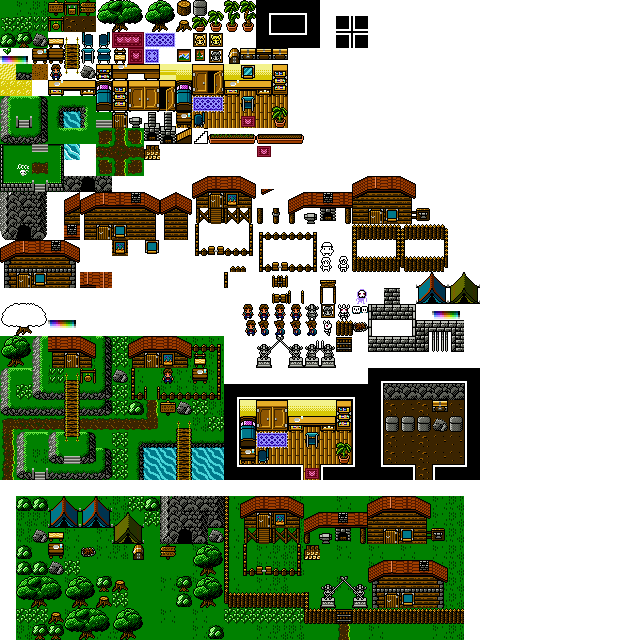
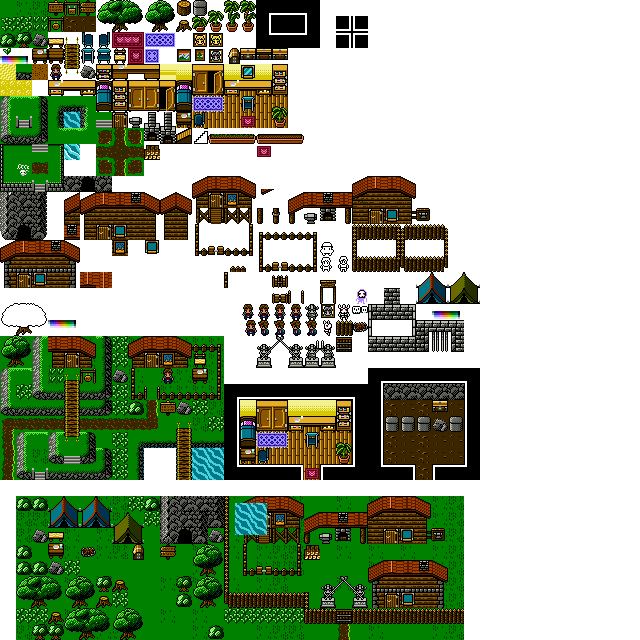
ну вроді ВСЬО

Changed region(s): [[0.3438, 0.7812, 0.4375, 0.8438], [0.2188, 0.6875, 0.2812, 0.75]]

diff --git a/Controller/MapController.cs b/Controller/MapController.cs
@@ -54,7 +54,7 @@ namespace Project.Controller
                 { 0 ,29,25,0 ,0 ,0 ,0 ,0 ,0 ,29,29,0 ,0 ,0 ,22,29,22,29,22,0 ,0 ,0 ,0 ,0 ,0 ,0 ,0 ,0 ,0 ,0 ,0 ,0 ,0 ,0 ,0 ,0 ,0 ,0 ,0 ,0 ,0 ,0 ,0 ,0 ,0 ,0 ,0 ,0 ,0 ,0 ,0 ,0 ,0 ,0 ,0 ,0 ,0 ,0 ,0 ,0},
                 { 0 ,7 ,24,0 ,0 ,0 ,0 ,0 ,0 ,29,29,0 ,0 ,0 ,29,22,22,22,29,0 ,0 ,0 ,0 ,0 ,0 ,30,0 ,0 ,0 ,0 ,0 ,0 ,0 ,0 ,0 ,0 ,0 ,0 ,0 ,0 ,0 ,0 ,0 ,0 ,0 ,0 ,0 ,0 ,0 ,0 ,0 ,0 ,0 ,0 ,0 ,0 ,0 ,0 ,0 ,0},
                 { 0 ,22,22,29,29,29,29,29,0 ,29,29,0 ,0 ,0 ,22,29,22,29,22,0 ,0 ,0 ,0 ,0 ,0 ,0 ,0 ,0 ,0 ,0 ,0 ,22,22,0 ,0 ,0 ,0 ,0 ,0 ,0 ,0 ,0 ,0 ,0 ,0 ,0 ,0 ,0 ,0 ,0 ,0 ,0 ,0 ,0 ,0 ,0 ,0 ,0 ,0 ,0},
-                { 0 ,25,25,22,22,22,29,29,30,29,29,0 ,0 ,0 ,29,22,29,22,29,0 ,0 ,0 ,0 ,0 ,0 ,0 ,0 ,0 ,0 ,0 ,0 ,22,22,0 ,0 ,0 ,0 ,0 ,0 ,0 ,0 ,0 ,0 ,0 ,0 ,0 ,0 ,0 ,0 ,0 ,0 ,0 ,0 ,0 ,0 ,0 ,0 ,0 ,0 ,0},
+                { 0 ,25,25,22,22,22,29,29,23,29,29,0 ,0 ,0 ,29,22,29,22,29,0 ,0 ,0 ,0 ,0 ,0 ,0 ,0 ,0 ,0 ,0 ,0 ,22,22,0 ,0 ,0 ,0 ,0 ,0 ,0 ,0 ,0 ,0 ,0 ,0 ,0 ,0 ,0 ,0 ,0 ,0 ,0 ,0 ,0 ,0 ,0 ,0 ,0 ,0 ,0},
                 { 0 ,29,26,27,22,29,29,29,30,30,30,0 ,0 ,0 ,0 ,29,51,51,29,0 ,0 ,0 ,0 ,0 ,0 ,0 ,0 ,0 ,0 ,0 ,0 ,22,22,0 ,0 ,0 ,0 ,0 ,0 ,0 ,0 ,0 ,0 ,0 ,0 ,0 ,0 ,0 ,0 ,0 ,0 ,0 ,0 ,0 ,0 ,0 ,0 ,0 ,0 ,0},
                 { 0 ,0 ,0 ,0 ,0 ,0 ,0 ,0 ,0 ,0 ,0 ,0 ,0 ,0 ,0 ,0 ,29,22,0 ,0 ,0 ,0 ,0 ,0 ,0 ,0 ,0 ,0 ,0 ,0 ,0 ,22,22,0 ,0 ,0 ,0 ,0 ,0 ,0 ,0 ,0 ,0 ,0 ,0 ,0 ,0 ,0 ,0 ,0 ,0 ,0 ,0 ,0 ,0 ,0 ,0 ,0 ,0 ,0},
                 { 0 ,0 ,0 ,0 ,0 ,0 ,0 ,0 ,0 ,0 ,0 ,0 ,0 ,0 ,0 ,0 ,29,29,0 ,0 ,0 ,0 ,0 ,0 ,0 ,0 ,0 ,22,22,22,22,22,22,22,22,22,22,0 ,0 ,0 ,0 ,0 ,0 ,0 ,0 ,0 ,0 ,0 ,0 ,0 ,0 ,0 ,0 ,0 ,0 ,0 ,0 ,0 ,0 ,0},
@@ -164,19 +164,19 @@ namespace Project.Controller
                     }
                     else if (map[i, j] == 50)
                     {
-                        g.DrawImage(spriteSheet, new Rectangle(new Point(j * cellSize + Level1.delta.X, i * cellSize + Level1.delta.Y), new Size(cellSize, cellSize)), 127, 481, 32, 32, GraphicsUnit.Pixel);//Грязна верхня дорога
+                        g.DrawImage(spriteSheet, new Rectangle(new Point(j * cellSize + Level1.delta.X, i * cellSize + Level1.delta.Y), new Size(cellSize, cellSize)), 205, 487, 32, 32, GraphicsUnit.Pixel);//Грязна верхня дорога
                     }
                     else if (map[i, j] == 51)
                     {
-                        g.DrawImage(spriteSheet, new Rectangle(new Point(j * cellSize + Level1.delta.X, i * cellSize + Level1.delta.Y), new Size(cellSize, cellSize)), 127, 481, 32, 32, GraphicsUnit.Pixel);//Грязна верхня дорога
+                        g.DrawImage(spriteSheet, new Rectangle(new Point(j * cellSize + Level1.delta.X, i * cellSize + Level1.delta.Y), new Size(cellSize, cellSize)), 205, 487, 32, 32, GraphicsUnit.Pixel);//Грязна верхня дорога
                     }
                     else if (map[i, j] == 52)
                     {
-                        g.DrawImage(spriteSheet, new Rectangle(new Point(j * cellSize + Level1.delta.X, i * cellSize + Level1.delta.Y), new Size(cellSize, cellSize)), 127, 481, 32, 32, GraphicsUnit.Pixel);//Грязна верхня дорога
+                        g.DrawImage(spriteSheet, new Rectangle(new Point(j * cellSize + Level1.delta.X, i * cellSize + Level1.delta.Y), new Size(cellSize, cellSize)), 205, 487, 32, 32, GraphicsUnit.Pixel);//Грязна верхня дорога
                     }
                     else if (map[i, j] == 53)
                     {
-                        g.DrawImage(spriteSheet, new Rectangle(new Point(j * cellSize + Level1.delta.X, i * cellSize + Level1.delta.Y), new Size(cellSize, cellSize)), 127, 481, 32, 32, GraphicsUnit.Pixel);//Грязна верхня дорога
+                        g.DrawImage(spriteSheet, new Rectangle(new Point(j * cellSize + Level1.delta.X, i * cellSize + Level1.delta.Y), new Size(cellSize, cellSize)), 205, 487, 32, 32, GraphicsUnit.Pixel);//Грязна верхня дорога
                     }
 
                 }

diff --git a/Contrl.Designer.cs b/Contrl.Designer.cs
@@ -41,7 +41,7 @@
             this.button_exit.FlatStyle = System.Windows.Forms.FlatStyle.Flat;
             this.button_exit.Font = new System.Drawing.Font("Lucida Console", 12F, System.Drawing.FontStyle.Bold, System.Drawing.GraphicsUnit.Point, ((byte)(204)));
             this.button_exit.ForeColor = System.Drawing.Color.Aqua;
-            this.button_exit.Location = new System.Drawing.Point(501, 607);
+            this.button_exit.Location = new System.Drawing.Point(591, 346);
             this.button_exit.Name = "button_exit";
             this.button_exit.Size = new System.Drawing.Size(108, 67);
             this.button_exit.TabIndex = 2;
